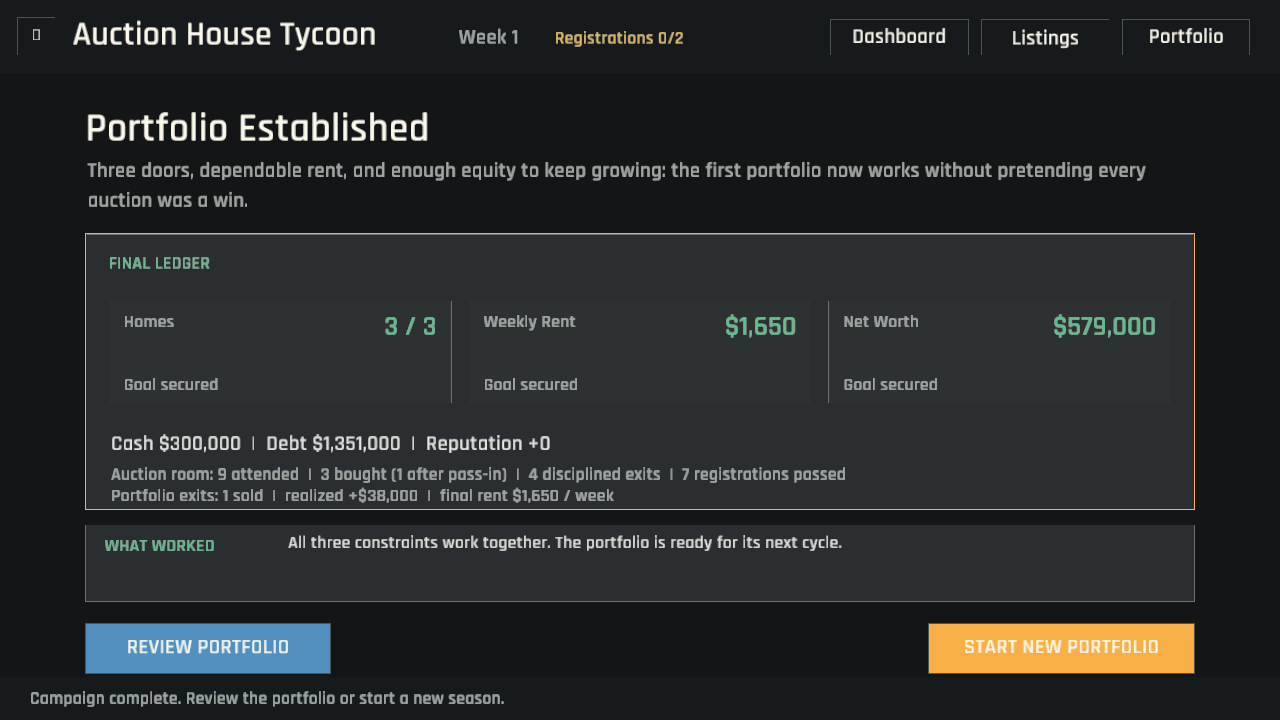
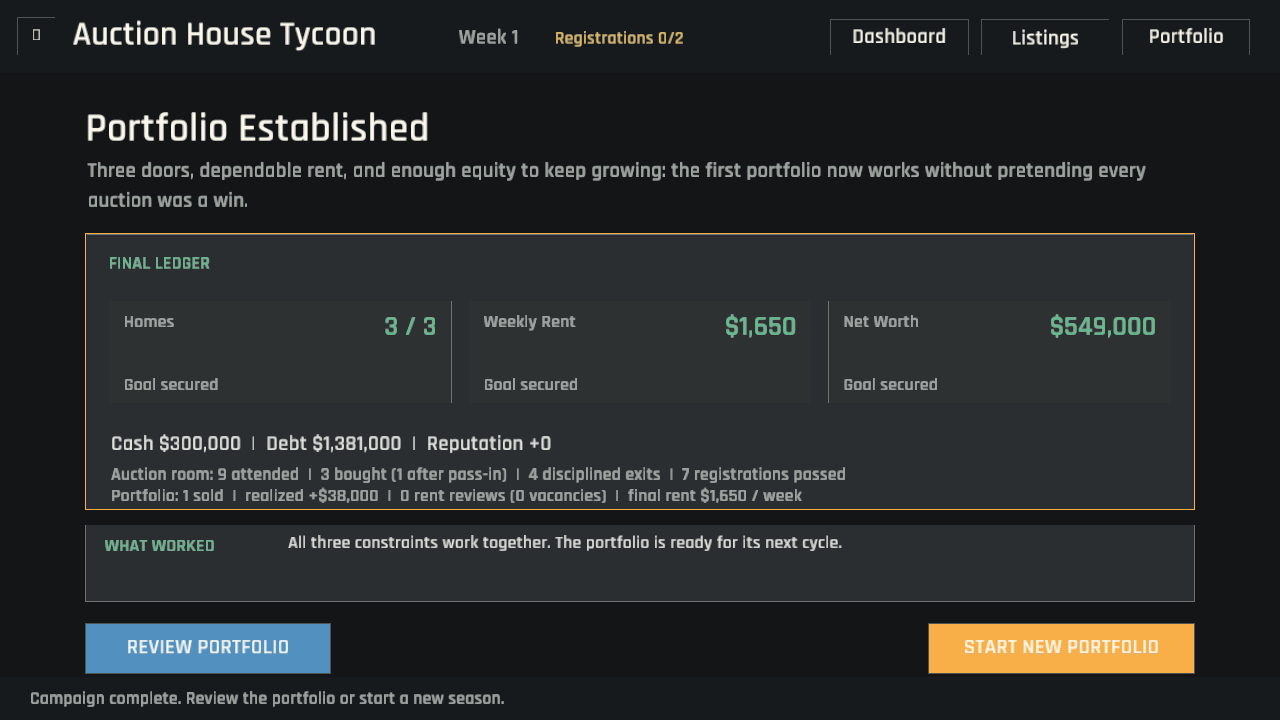
The season ledger now remembers its tenants (rent-review career record)
Rent reviews and review-created vacancies disappeared once their status message cleared. Save-compatible career fields now carry both outcomes through the dashboard and final portfolio ledger, with an older-ledger deserialization test protecting existing saves. Fresh dashboard and conclusion captures confirm the expanded record remains readable.

Changed region(s): [[0.125, 0.6722, 0.625, 0.7028], [0.2812, 0.6111, 0.4375, 0.6417], [0.8125, 0.4278, 0.875, 0.4889]]

diff --git a/src/app/portfolio_actions.rs b/src/app/portfolio_actions.rs
@@ -109,23 +109,29 @@ impl App {
             return;
         };
         let address = owned.property.address.clone();
-        self.status = match resolve_rent_review(owned, &market, test_market) {
-            Some(RentReviewOutcome::Renewed(rent)) => format!(
+        let Some(outcome) = resolve_rent_review(owned, &market, test_market) else {
+            return;
+        };
+        self.player.career.rent_reviews_completed += 1;
+        if matches!(outcome, RentReviewOutcome::Vacated(_)) {
+            self.player.career.review_vacancies += 1;
+        }
+        self.status = match outcome {
+            RentReviewOutcome::Renewed(rent) => format!(
                 "{} renewed at {} per week for another eight weeks.",
                 address,
                 format_money(rent)
             ),
-            Some(RentReviewOutcome::Raised(rent)) => format!(
+            RentReviewOutcome::Raised(rent) => format!(
                 "The tenant accepted {} per week at {}. The higher rent is now contracted.",
                 format_money(rent),
                 address
             ),
-            Some(RentReviewOutcome::Vacated(ask)) => format!(
+            RentReviewOutcome::Vacated(ask) => format!(
                 "The tenant rejected {} per week at {} and left. Advertise again to restore rent.",
                 format_money(ask),
                 address
             ),
-            None => return,
         };
         self.refresh_campaign_outcome();
     }

diff --git a/src/screens/dashboard.rs b/src/screens/dashboard.rs
@@ -40,10 +40,11 @@ impl App {
         );
         label(
             &format!(
-                "Season: {} attended  |  {} bought  |  {} disciplined exits",
+                "Season: {} attended  |  {} bought  |  {} disciplined exits  |  {} rent reviews",
                 self.player.career.auctions_attended,
                 self.player.career.homes_bought,
-                self.player.career.disciplined_walkaways
+                self.player.career.disciplined_walkaways,
+                self.player.career.rent_reviews_completed
             ),
             margin + 330.0,
             top + 288.0,
@@ -192,9 +193,11 @@ impl App {
         );
         label(
             &format!(
-                "Portfolio exits: {} sold  |  realized {}  |  final rent {} / week",
+                "Portfolio: {} sold  |  realized {}  |  {} rent reviews ({} vacancies)  |  final rent {} / week",
                 self.player.career.homes_sold,
                 signed_money(self.player.career.realized_profit),
+                self.player.career.rent_reviews_completed,
+                self.player.career.review_vacancies,
                 format_money(rental.gross_rent)
             ),
             panel.x + 24.0,

diff --git a/src/model/player/tests.rs b/src/model/player/tests.rs
@@ -8,7 +8,19 @@ fn a_new_investor_starts_with_an_empty_career_record() {
     assert_eq!(player.career.homes_bought, 0);
     assert_eq!(player.career.realized_profit, 0);
     assert_eq!(player.career.unused_registrations, 0);
+    assert_eq!(player.career.rent_reviews_completed, 0);
+    assert_eq!(player.career.review_vacancies, 0);
     assert!(player.rival_notebook.is_empty());
+}
+
+#[test]
+fn older_career_ledgers_gain_empty_tenancy_outcomes() {
+    let career: CareerRecord = serde_json::from_str(r#"{"auctions_attended": 4}"#)
+        .expect("older career record should remain readable");
+
+    assert_eq!(career.auctions_attended, 4);
+    assert_eq!(career.rent_reviews_completed, 0);
+    assert_eq!(career.review_vacancies, 0);
 }
 
 #[test]

diff --git a/src/model/player.rs b/src/model/player.rs
@@ -29,6 +29,7 @@ impl Player {
 }
 
 #[derive(Clone, Debug, Default, Deserialize, Serialize)]
+#[serde(default)]
 pub struct CareerRecord {
     pub auctions_attended: u32,
     pub homes_bought: u32,
@@ -38,6 +39,8 @@ pub struct CareerRecord {
     pub realized_profit: i64,
     #[serde(default)]
     pub unused_registrations: u32,
+    pub rent_reviews_completed: u32,
+    pub review_vacancies: u32,
 }
 
 impl CareerRecord {

diff --git a/README.md b/README.md
@@ -35,6 +35,7 @@ Winning an auction is not automatically good. The real challenge is knowing what
 - Translate a hammer win into a settlement ledger showing the 10% deposit, new loan, rent appraisal, and leveraged weekly cashflow before purchase settlement.
 - Diagnose every owned home's true weekly result after its rent, management, loan interest, property costs, and maintenance impact.
 - Handle scheduled eight-week rent reviews: renew safely, or ask for the current market rent and risk a vacancy in a weak tenant market.
+- Carry completed reviews and review-created vacancies into the persistent season ledger and final portfolio debrief.
 - Preserve a safe cash buffer that grows by $8,000 per portfolio door; auction guidance warns when the next bid leaves too little resilience.
 
 ## Goal
